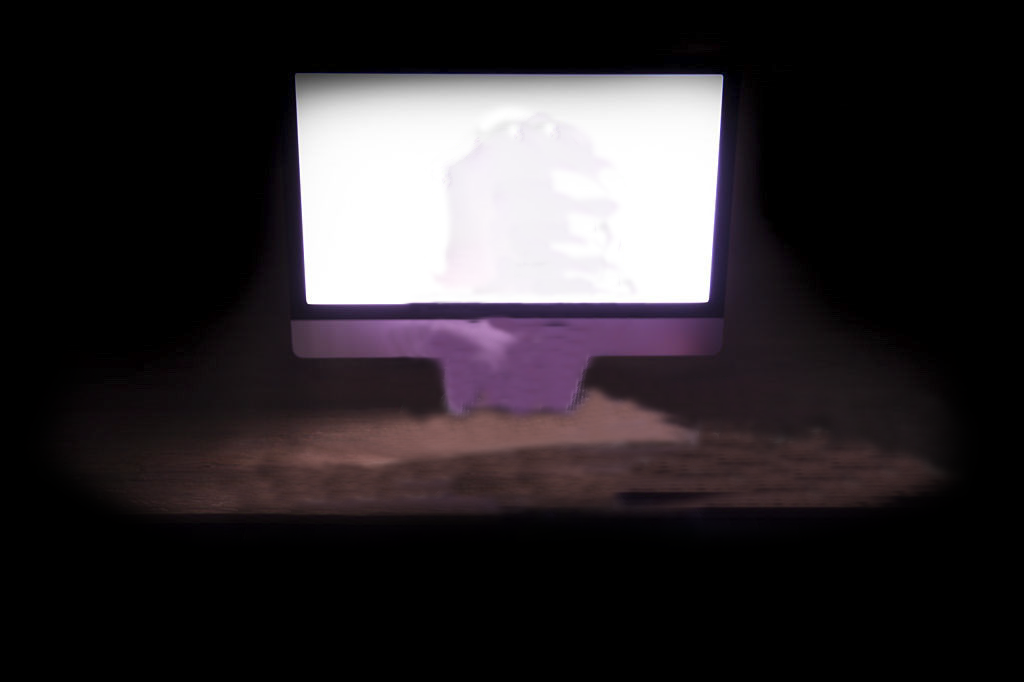
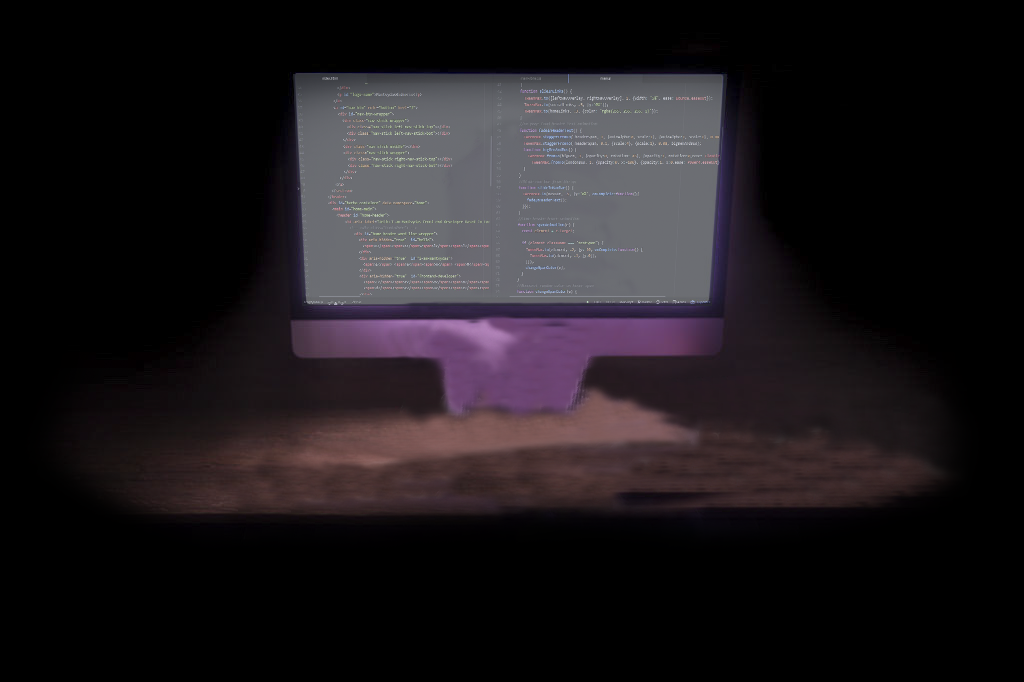
prorotyping
prototyping idea

Changed region(s): [[0.2812, 0.0924, 0.7188, 0.4619]]

diff --git a/script/main.js b/script/main.js
@@ -22,6 +22,7 @@
     const homeAllImg = document.getElementById('img-holder img');
     const pageBody = document.querySelector('body');
     const parallaxWrapper = document.getElementById('parallax-wrapper-outter');
+    let pcImg = document.getElementById('bg-pc');
 
     //On page load fadein home page background image
     function onLoadFadeInHomeImg() {
@@ -87,10 +88,12 @@
     function startLinkAnimation(e) {
       let element = e.target;
       TweenMax.to(element.querySelectorAll('span'), .3, {padding:'.5rem 1rem'});
+         pcImg.src = 'img/about-hover-bg.png';
     }
     function endLinkAnimation(e) {
       let element = e.target;
       TweenMax.to(element.querySelectorAll('span'), .3, {padding:'0rem 1rem'});
+       pcImg.src = 'img/prorotype-bg.png';
     }
     //Nav button open animation
     function navBtnClose(){
@@ -197,8 +200,8 @@
 		let radius = Math.sqrt(Math.pow(tiltx,2) + Math.pow(tilty,2));
 		let degree = (radius * 20);
 
-    TweenMax.to("#bg-pc", 1, {x:-tilty*5, y:-tiltx*5, ease:Power2.easeOut});
-    TweenMax.to("#person", 1, {x:tilty*10, y:tiltx*5, ease:Power2.easeOut});
+    TweenMax.to("#bg-pc", 1, {x:-tilty*5, y:-tiltx*5, rotation:0.01, ease:Power2.easeOut});
+    TweenMax.to("#person", 1, {x:tilty*10, y:tiltx*5, rotation:0.01, ease:Power2.easeOut});
   }
 
   window.addEventListener('resize', function(event){

diff --git a/style/main-style.css b/style/main-style.css
@@ -408,16 +408,16 @@ main {
 }
 #bg-pc {
   right:0;
-  bottom:20px;
-  height: 80%;
+  bottom:0px;
+  height: 75%;
 }
 #person {
-  height: 65%;
+  height: 60%;
 transform: translateZ(50px);
 -moz-transform: translateZ(50px);
 -webkit-transform: translateZ(50px);
 bottom: 0;
-right: 200px;
+right: 70px;
 }
 /********** MEDIA QUERIES **********/
 @media (min-width: 600px) {

diff --git a/index.html b/index.html
@@ -78,7 +78,7 @@
           <section id="parallax-wrapper-outter">
             <div id="parallax-wrapper">
               <img id="bg-pc" src="img/prorotype-bg.png" alt="">
-              <img id="person" src="img/prorotype-person.png" alt="">
+              <img id="person" src="img/prorortype-me.png" alt="">
             </div>
           </section>
         </main>
